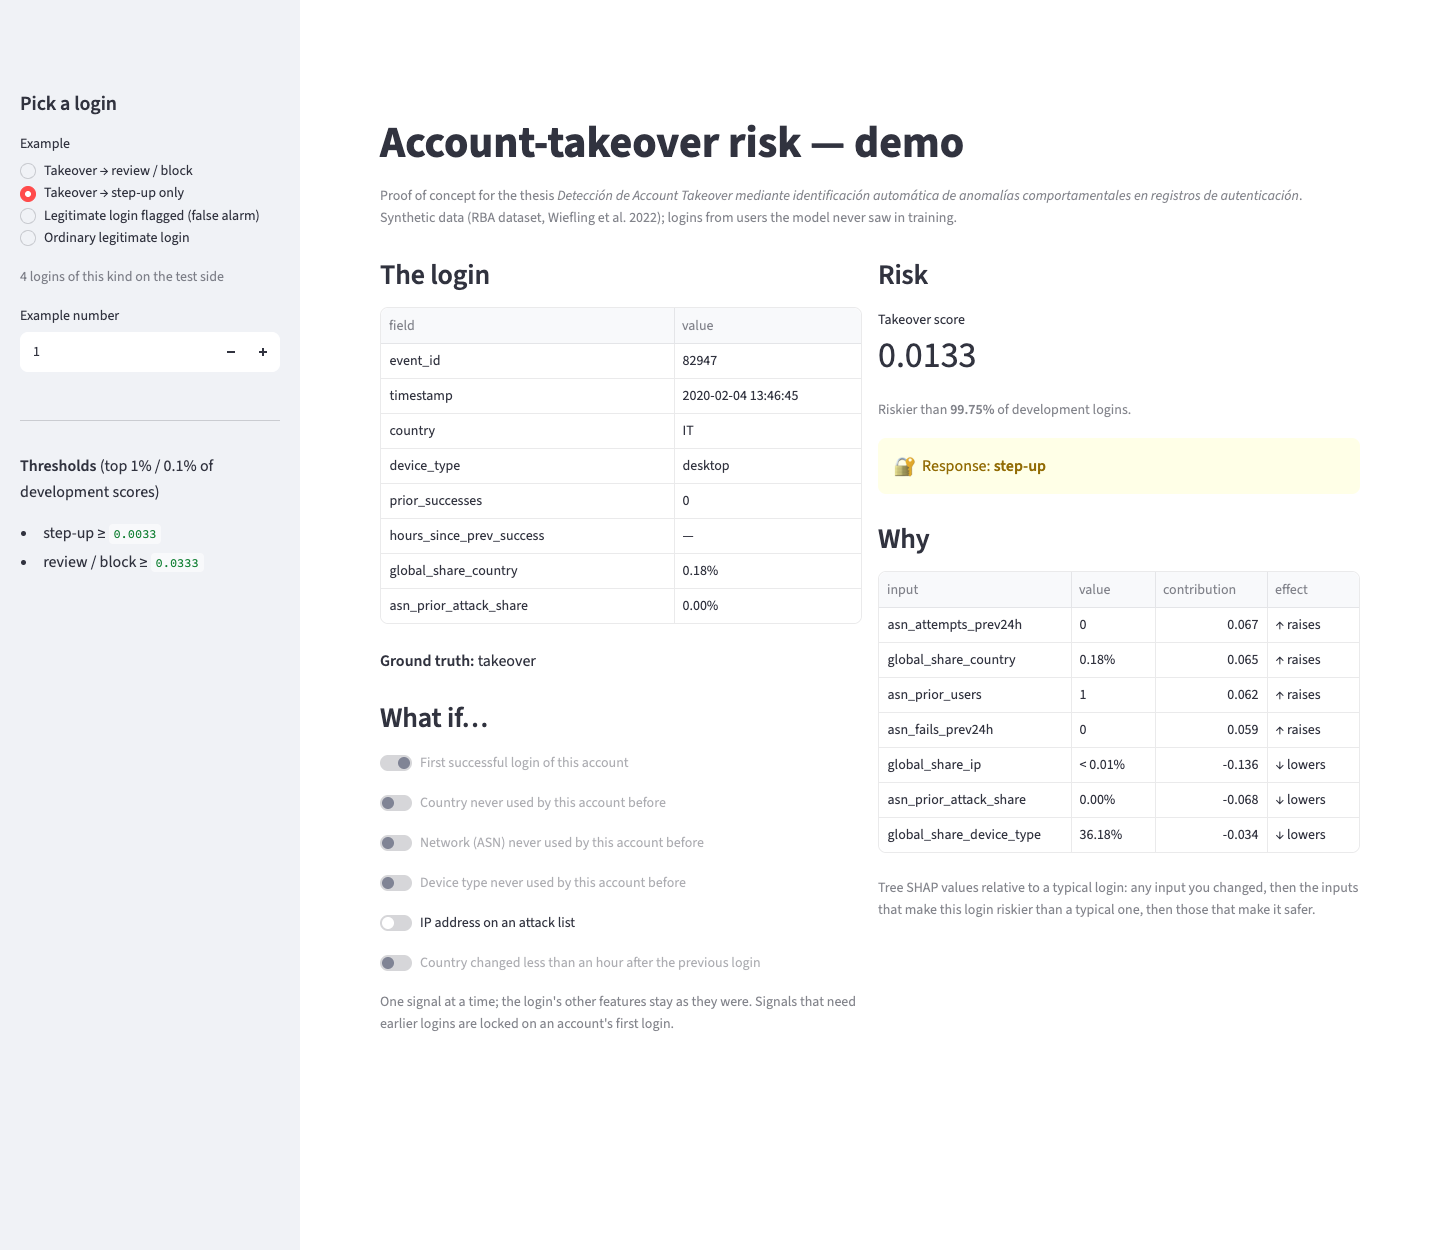
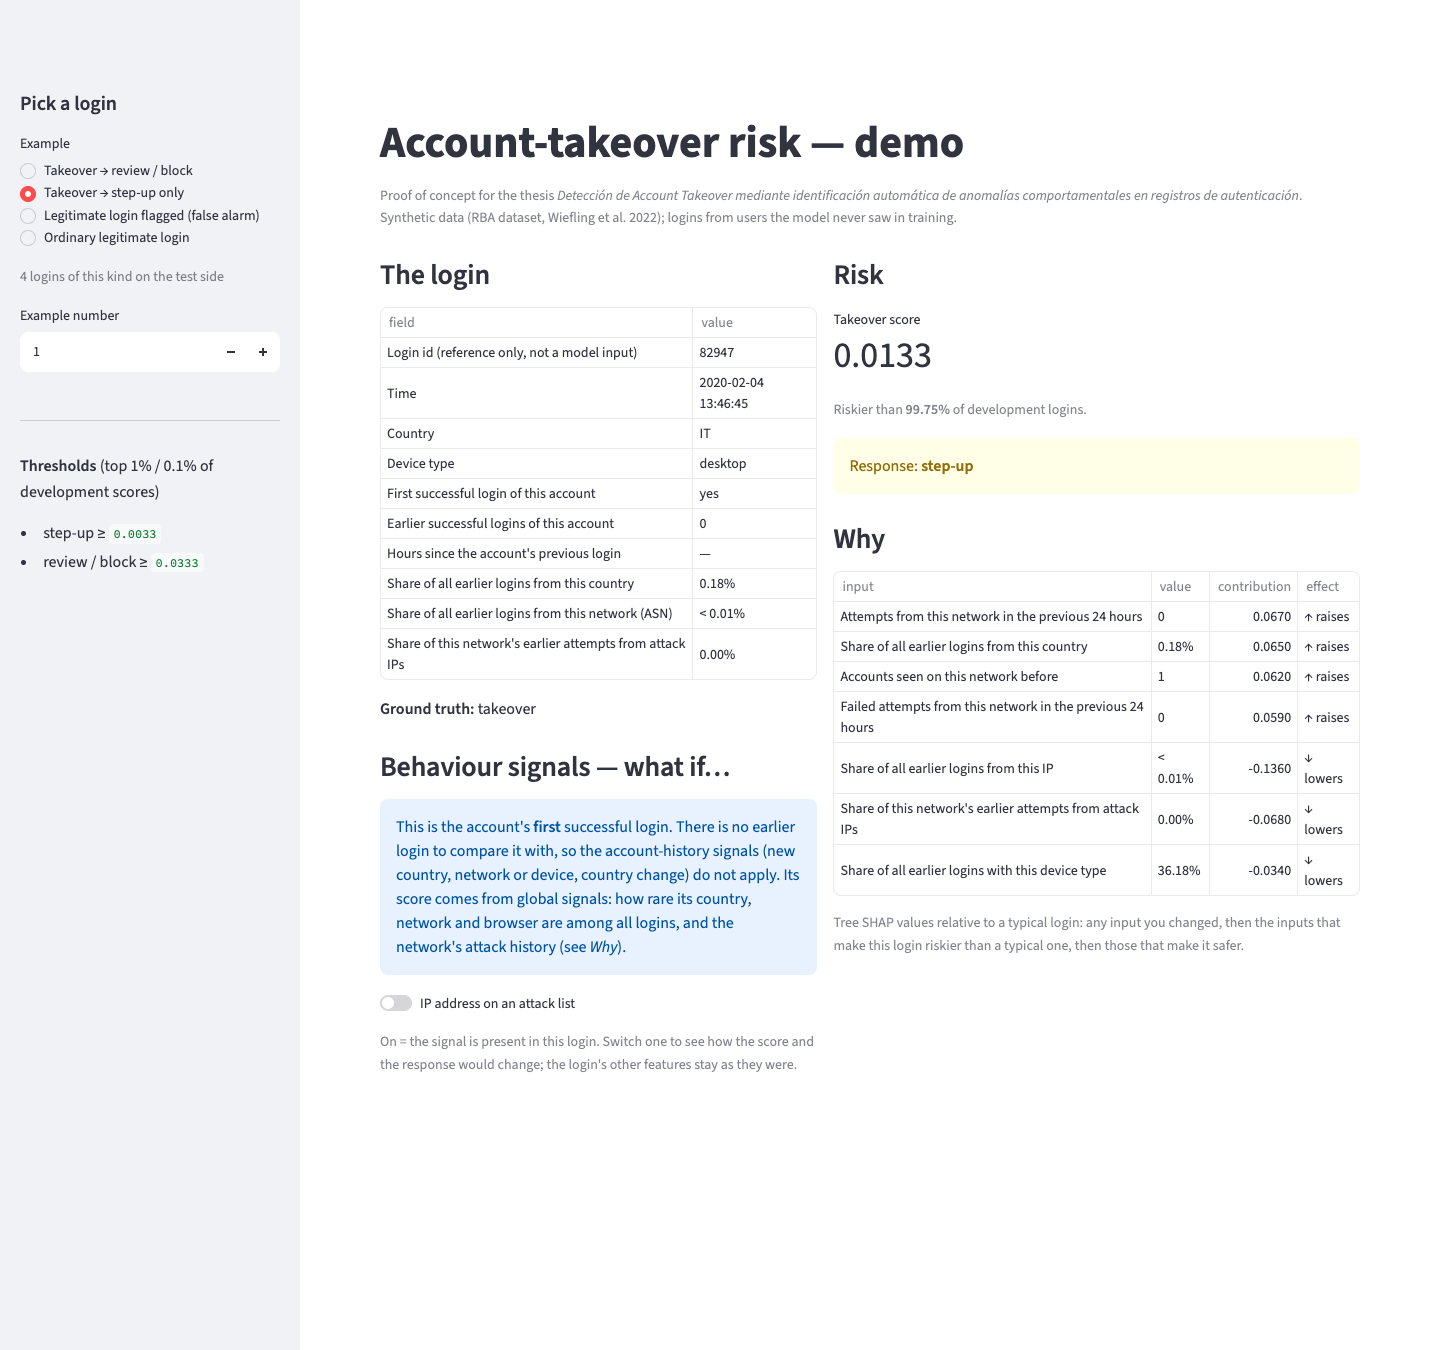
fix: make the demo signals and explanations easier to read
Positive wording for the behaviour switches; on a first login the account-history signals are explained instead of shown as off; plain-language input names; login id marked as reference only; static tables so nothing is cut; no emojis in the response box.

diff --git a/notebooks/7-deploy/app.py b/notebooks/7-deploy/app.py
@@ -25,15 +25,11 @@ if str(REPO_ROOT / "src") not in sys.path:
 
 from data.datasets import load_dataset_config  # noqa: E402
 from data.split import load_side  # noqa: E402
-from inference.predict import ALLOW, Detector, format_value  # noqa: E402
+from inference.predict import ALLOW, NEVER_SEEN_PREFIX, Detector, format_value  # noqa: E402
 
 DATA_DIR = Path(os.environ.get("ATO_DATA_DIR", REPO_ROOT / "data"))
 DATASET = os.environ.get("ATO_DATASET", "rba")
-TIER_STYLE = {
-    "review / block": ("🛑", "error"),
-    "step-up": ("🔐", "warning"),
-    ALLOW: ("✅", "success"),
-}
+TIER_STYLE = {"review / block": "error", "step-up": "warning", ALLOW: "success"}
 HISTORY_SIGNALS = {
     "new_country",
     "new_asn",
@@ -47,18 +43,51 @@ KEY_NOVELTY = (
     "new_os",
     "new_browser",
 )  # n_new_key_signals
-WHAT_IF = {
-    "first_success": "First successful login of this account",
-    "new_country": "Country never used by this account before",
-    "new_asn": "Network (ASN) never used by this account before",
-    "new_device_type": "Device type never used by this account before",
+WHAT_IF = {  # behaviour signals that can be switched (positive wording: on = the signal is present)
+    "new_country": "New country for this account",
+    "new_asn": "New network (ASN) for this account",
+    "new_device_type": "New device type for this account",
     "attack_ip": "IP address on an attack list",
-    "country_change_1h": "Country changed less than an hour after the previous login",
+    "country_change_1h": "Country changed within an hour of the previous login",
 }
 KEY_COLUMNS = [
-    "event_id", "timestamp", "country", "device_type", "prior_successes", "hours_since_prev_success",
-    "global_share_country", "asn_prior_attack_share",
+    "event_id", "timestamp", "country", "device_type", "first_success", "prior_successes",
+    "hours_since_prev_success", "global_share_country", "global_share_asn", "asn_prior_attack_share",
 ]  # fmt: skip
+LABELS = {  # plain-language names for the inputs shown on screen
+    "event_id": "Login id (reference only, not a model input)",
+    "timestamp": "Time",
+    "country": "Country",
+    "device_type": "Device type",
+    "first_success": "First successful login of this account",
+    "prior_successes": "Earlier successful logins of this account",
+    "hours_since_prev_success": "Hours since the account's previous login",
+    "global_share_country": "Share of all earlier logins from this country",
+    "global_share_asn": "Share of all earlier logins from this network (ASN)",
+    "global_share_ip": "Share of all earlier logins from this IP",
+    "global_share_browser": "Share of all earlier logins with this browser",
+    "global_share_os": "Share of all earlier logins with this OS",
+    "global_share_device_type": "Share of all earlier logins with this device type",
+    "global_share_user_agent": "Share of all earlier logins with this exact user agent",
+    "asn_prior_attack_share": "Share of this network's earlier attempts from attack IPs",
+    "asn_prior_fail_share": "Share of this network's earlier attempts that failed",
+    "ip_prior_attack_share": "Share of this IP's earlier attempts from attack IPs",
+    "ip_prior_fail_share": "Share of this IP's earlier attempts that failed",
+    "asn_attempts_prev24h": "Attempts from this network in the previous 24 hours",
+    "asn_fails_prev24h": "Failed attempts from this network in the previous 24 hours",
+    "asn_prior_users": "Accounts seen on this network before",
+    "ip_prior_users": "Accounts seen on this IP before",
+    "user_agent_prior_users": "Accounts seen with this exact user agent before",
+    "user_prior_countries": "Countries this account used before",
+    "n_new_key_signals": "Number of new key signals at once",
+    "fails_1h": "Failed attempts on this account in the previous hour",
+    "fails_24h": "Failed attempts on this account in the previous 24 hours",
+    **{
+        f"new_{s}": f"New {s.replace('_', ' ')} for this account"
+        for s in ("ip", "os", "browser", "user_agent", "region", "city")
+    },
+    **WHAT_IF,
+}
 
 
 @st.cache_resource
@@ -145,38 +174,53 @@ def pick_login(groups: dict[str, pl.DataFrame], det: Detector) -> pl.DataFrame:
     return pool.sort(pl.col("event_id").hash(seed=0))[int(pick)]
 
 
+def label(column: str) -> str:
+    """Plain-language name of an input; never-seen indicators and encodings read from their source."""
+    if column.startswith(NEVER_SEEN_PREFIX):
+        source = column.removeprefix(NEVER_SEEN_PREFIX)
+        return f"{source.split('_', 1)[0].upper()} never seen before (for: {LABELS.get(source, source)})"
+    return LABELS.get(column, column)
+
+
 def login_panel(login: pl.DataFrame) -> pl.DataFrame:
-    """Left column: the login's key fields and the what-if toggles; returns the edited login."""
+    """Left column: the login's key fields and its behaviour signals; returns the edited login."""
     st.subheader("The login")
     shown = [c for c in KEY_COLUMNS if c in login.columns]
-    st.dataframe(
-        pl.DataFrame({"field": shown, "value": [format_value(c, login[c][0]) for c in shown]}),
-        width="stretch",
-        hide_index=True,
+    st.table(
+        pl.DataFrame(
+            {
+                "field": [label(c) for c in shown],
+                "value": [format_value(c, login[c][0]) for c in shown],
+            }
+        ),
     )
     st.markdown(f"**Ground truth:** {'takeover' if login['label_ato'][0] else 'legitimate'}")
-    st.subheader("What if…")
+    st.subheader("Behaviour signals — what if…")
     first_login = (
         bool(login["prior_successes"][0] == 0) if "prior_successes" in login.columns else False
     )
+    if first_login:
+        st.info(
+            "This is the account's **first** successful login. There is no earlier login to compare it with, "
+            "so the account-history signals (new country, network or device, country change) do not apply. "
+            "Its score comes from global signals: how rare its country, network and browser are among all "
+            "logins, and the network's attack history (see *Why*)."
+        )
     edited = login.clone()
-    for column, label in WHAT_IF.items():
-        if column in login.columns:
-            current = bool(login[column][0]) if login[column][0] is not None else False
-            # history-based signals do not exist on an account's first login; first_success is a fact
-            locked = column == "first_success" or (first_login and column in HISTORY_SIGNALS)
-            value = st.toggle(
-                label, value=current, key=f"{column}-{login['event_id'][0]}", disabled=locked
-            )
-            edited = edited.with_columns(pl.lit(value).alias(column))
+    for column, text in WHAT_IF.items():
+        if column not in login.columns or (first_login and column in HISTORY_SIGNALS):
+            continue
+        current = bool(login[column][0]) if login[column][0] is not None else False
+        value = st.toggle(text, value=current, key=f"{column}-{login['event_id'][0]}")
+        edited = edited.with_columns(pl.lit(value).alias(column))
     if "n_new_key_signals" in login.columns and not first_login:
         key = [c for c in KEY_NOVELTY if c in edited.columns]
         edited = edited.with_columns(
             pl.sum_horizontal(key).cast(pl.UInt8).alias("n_new_key_signals")
         )
     st.caption(
-        "One signal at a time; the login's other features stay as they were. Signals that need earlier logins "
-        "are locked on an account's first login."
+        "On = the signal is present in this login. Switch one to see how the score and the response would "
+        "change; the login's other features stay as they were."
     )
     return edited
 
@@ -187,7 +231,7 @@ def risk_panel(det: Detector, login: pl.DataFrame, edited: pl.DataFrame) -> None
     toggled = [c for c in WHAT_IF if c in login.columns and bool(edited[c][0]) != bool(login[c][0])]
     changed = bool(toggled)
     tier = det.tier(score)
-    icon, style = TIER_STYLE[tier]
+    style = TIER_STYLE[tier]
     st.subheader("Risk")
     st.metric(
         "Takeover score",
@@ -198,7 +242,7 @@ def risk_panel(det: Detector, login: pl.DataFrame, edited: pl.DataFrame) -> None
     rank = det.riskier_than(score)
     rank_text = "more than 99.99%" if rank > 0.9999 else f"{rank:.2%}"  # noqa: PLR2004
     st.caption(f"Riskier than **{rank_text}** of development logins.")
-    getattr(st, style)(f"{icon} Response: **{tier}**")
+    getattr(st, style)(f"Response: **{tier}**", icon=None)
     st.subheader("Why")
     everything = det.explain(edited, top=len(det.columns) * 3)[0]  # every input, by |contribution|
     changed_inputs = everything.filter(
@@ -210,12 +254,11 @@ def risk_panel(det: Detector, login: pl.DataFrame, edited: pl.DataFrame) -> None
     effect = (
         pl.when(pl.col("contribution") > 0).then(pl.lit("↑ raises")).otherwise(pl.lit("↓ lowers"))
     )
-    st.dataframe(
-        pl.concat([changed_inputs, raises, lowers]).with_columns(
-            effect.alias("effect"), pl.col("contribution").round(3)
-        ),
-        width="stretch",
-        hide_index=True,
+    table = pl.concat([changed_inputs, raises, lowers])
+    st.table(
+        table.with_columns(
+            pl.col("input").map_elements(label, return_dtype=pl.String),
+        ).with_columns(effect.alias("effect"), pl.col("contribution").round(3)),
     )
     st.caption(
         "Tree SHAP values relative to a typical login: any input you changed, then the inputs that make this "
@@ -224,7 +267,7 @@ def risk_panel(det: Detector, login: pl.DataFrame, edited: pl.DataFrame) -> None
 
 
 def main() -> None:
-    st.set_page_config(page_title="ATO risk demo", page_icon="🔐", layout="wide")
+    st.set_page_config(page_title="ATO risk demo", layout="wide")
     st.title("Account-takeover risk — demo")
     st.caption(
         "Proof of concept for the thesis *Detección de Account Takeover mediante identificación automática de "
@@ -243,7 +286,7 @@ def main() -> None:
         st.info("No logins to show.")
         st.stop()
     login = pick_login(groups, det)
-    left, right = st.columns([1, 1])
+    left, right = st.columns([1, 1.2])
     with left:
         edited = login_panel(login)
     with right:

diff --git a/tests/inference/test_app.py b/tests/inference/test_app.py
@@ -57,8 +57,10 @@ def test_demo_scores_a_login_and_reacts_to_what_if(
     assert app.metric[0].value != before, "the what-if change reaches the model"
     assert app.metric[0].delta is not None
     assert app.metric[0].delta.lstrip("+-") != "0.0000 vs the real login"
-    first = next(t for t in app.toggle if t.label == "First successful login of this account")
-    assert first.disabled, "whether a login is the account's first is a fact, not a what-if"
+    labels = {t.label for t in app.toggle}
+    assert "First successful login of this account" not in labels, (
+        "a fact, shown in the table, not a switch"
+    )
 
 
 def test_demo_explains_missing_data(tmp_path: Path, monkeypatch: pytest.MonkeyPatch) -> None:

diff --git a/notebooks/7-deploy/README.md b/notebooks/7-deploy/README.md
@@ -12,10 +12,13 @@ Issue [#8](https://github.com/modsiw-mona/anomaly_detection_ato/issues/8) (CRISP
 - **Output:** the takeover score, how it ranks among development logins, the **response tier** with the thresholds
   of issue #7 (top 1% → step-up, top 0.1% → review / block), and **why**: tree SHAP contributions relative to a
   typical login (300 ordinary test logins), so "raises" means "riskier than a typical login".
-- **What if…:** switch one behavioural signal (new country / network / device, attack-IP address, country change
-  within an hour) and the login is re-scored on the spot; the other features stay as they were (the count of new
-  key signals is updated). Signals that need earlier logins are locked on an account's first login, and whether a
-  login is the first is shown but cannot be changed.
+- **Behaviour signals — what if…:** switches show the behaviour signals of the login (on = the signal is
+  present: new country / network / device for the account, attack-listed IP, country change within an hour).
+  Switch one and the login is re-scored on the spot; the other features stay as they were (the count of new key
+  signals is updated). On an account's **first** login there is no history to compare with, so the
+  account-history signals do not apply: the demo says so and shows only the attack-IP switch.
+- **Plain-language names:** every input on screen is shown by what it means (e.g. "Share of all earlier logins
+  from this country"); the login id is shown for reference only and is not a model input.
 
 **Why not a form or a CSV upload?** The course's reference demo scores one row typed in a form, or a batch from a
 CSV. Here a login's features describe it *against the account's history and all earlier traffic* (novelty, rarity,
